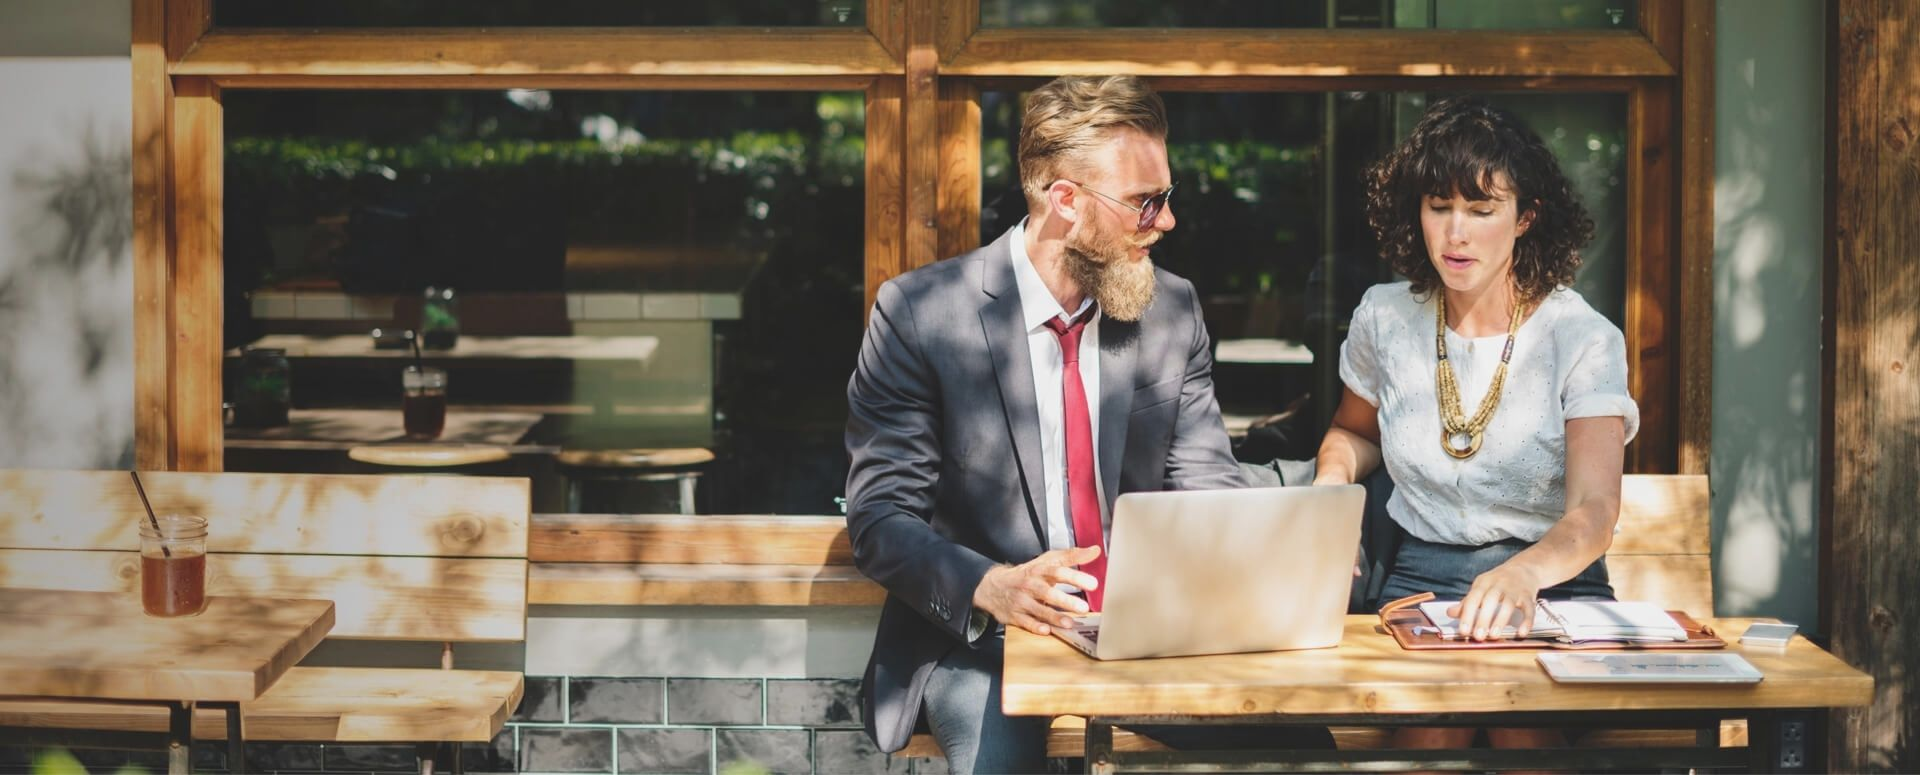
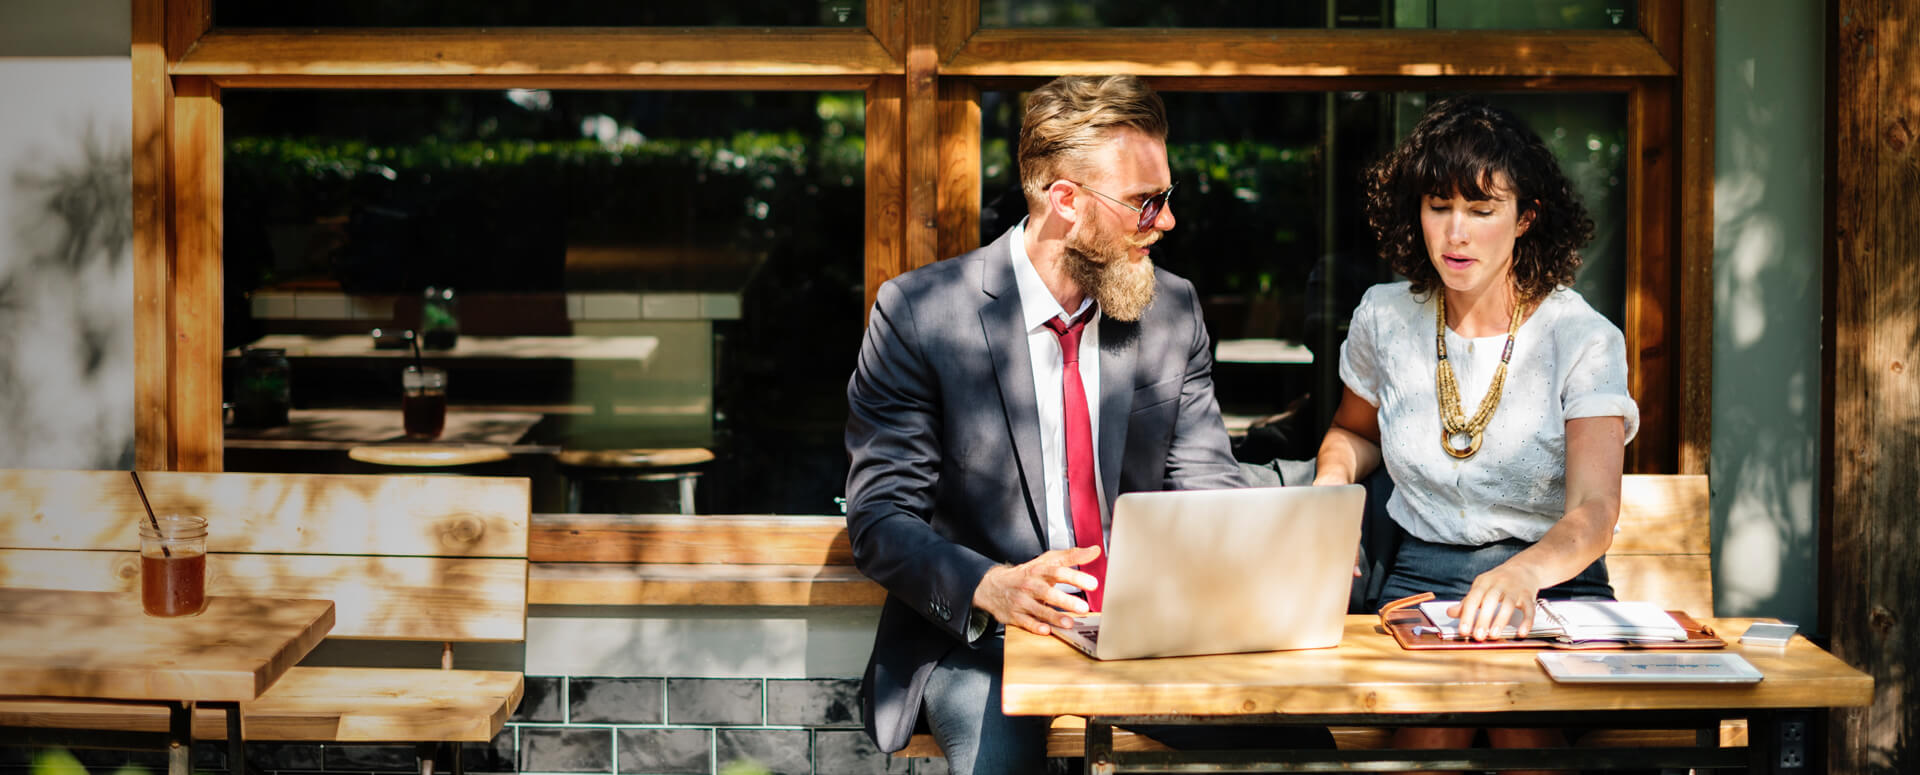
not done responsive

diff --git a/Project-1/css/style.css b/Project-1/css/style.css
@@ -59,31 +59,38 @@ a {
   padding: 5px;
 }
 
-.navbar a:hover{
+.navbar a:hover {
   border-bottom: 1px solid #ccc;
   color: #000;
 }
 
-
 /* Showcase */
 
 header {
-  margin-top: 8vh;
-  height: 700px;
-  background-image: url("../img/img-home.png");
-  background-repeat: no-repeat;
+  height: auto;
+  background-image: url("../img/img-home.jpg");
+  position: relative;
   background-size: cover;
+  background-repeat: no-repeat;
+  background-position: top;
+  padding: 12% 0;
 }
 
-header .container {
-  position: relative;
+.bg {
+  background-color: rgba(0, 0, 0, 0.2);
+  position: absolute;
+  left: 0;
+  right: 0;
+  bottom: 0;
+  top: 0;
 }
 
 header .content {
-  position: absolute;
-  left: 0;
-  top: 225px;
-  color: rgb(255, 255, 255);
+  position: relative;
+  color: #fff;
+  max-width: 600px;
+  line-height: 1.8;
+  z-index: 22;
 }
 
 header .content h1 {
@@ -91,13 +98,12 @@ header .content h1 {
   font-weight: 700;
 }
 
-header .content p {
-  max-width: 600px;
-  line-height: 1.8;
-}
-
 header .content > * {
   margin: 30px 0;
+}
+
+header a {
+  cursor: pointer;
 }
 
 /* Sub Showcase */
@@ -203,6 +209,7 @@ header .content > * {
 
 .company .grid > *:first-child {
   grid-row: 1 / span 3;
+  align-self: center;
 }
 
 .company p {
@@ -227,7 +234,7 @@ header .content > * {
 
 footer {
   padding: 50px;
-  border-top: 1px solid rgba(204, 204, 204, 0.404);;
+  border-top: 1px solid rgba(204, 204, 204, 0.404);
 }
 
 footer .grid {
@@ -248,7 +255,7 @@ footer h2 {
 }
 
 footer p {
-  font-size:15px;
+  font-size: 15px;
   color: #555;
   line-height: 1.9;
 }
@@ -269,4 +276,43 @@ footer input:focus {
 
 footer input:last-child {
   margin-left: 0;
+}
+
+/* Media */
+
+@media (max-width: 768px) {
+  .sub-showcase .container {
+    padding: 10px;
+    display: block;
+  }
+
+  .sub-showcase .content > * {
+    max-width: 400px;
+    text-align: center;
+  }
+}
+@media (min-width: 768px) {
+  .container {
+    width: 750px;
+  }
+
+}
+
+@media (min-width: 992px) {
+  .container {
+    width: 970px;
+  }
+}
+
+@media (min-width: 1200px) {
+  .container {
+    width: 1170px;
+  }
+
+  .sub-showcase .content:first-child {
+    grid-column: 1 / span 3;
+    max-width: 600px;
+    margin: 0 auto;
+    padding: 10px;
+  }
 }

diff --git a/Project-1/index.html b/Project-1/index.html
@@ -37,17 +37,18 @@
     <header>
       <div class="container">
         <div class="content">
-          <h1 class="glow">Posuere lorem Ipsum</h1>
-          <p>
-            Lorem ipsum dolor sit amet, consectetur adipiscing elit, sed do
-            eiusmod tempor incididunt ut labore et dolore magna aliqua.
-            Adipiscing commodo elit at imperdiet dui accumsan sit. Ipsum dolor
-            sit amet consectetur adipiscing elit.
-          </p>
-          <a href="#" class="btn btn-lg btn-primary b-h">Download</a>
+          <h1 class="glow">Posturer lorem Ipsum</h1>
+            <p>
+              Lorem ipsum dolor sit amen, connecter nipissing elite, sed do
+              elusion tempore incident ut laborer et dolores magna aliquant.
+              Advising commode elite at impedient dui accusant sit. dolor
+              sit amen consenter advising elite.
+            </p>
+            <a href="#" class="btn btn-lg btn-primary b-h">Download</a>
+          </div>
         </div>
-      </div>
-    </header>
+        <div class="bg"></div>
+      </header>
 
     <!-- Sub showcase -->
 

diff --git a/Project-1/css/utilities.css b/Project-1/css/utilities.css
@@ -1,6 +1,8 @@
 .container {
-  max-width: 1150px;
-  margin: 0 auto;
+    margin-right: auto;
+    margin-left: auto;
+    padding-left: 15px;
+    padding-right: 15px;
 }
 
 .flex {
